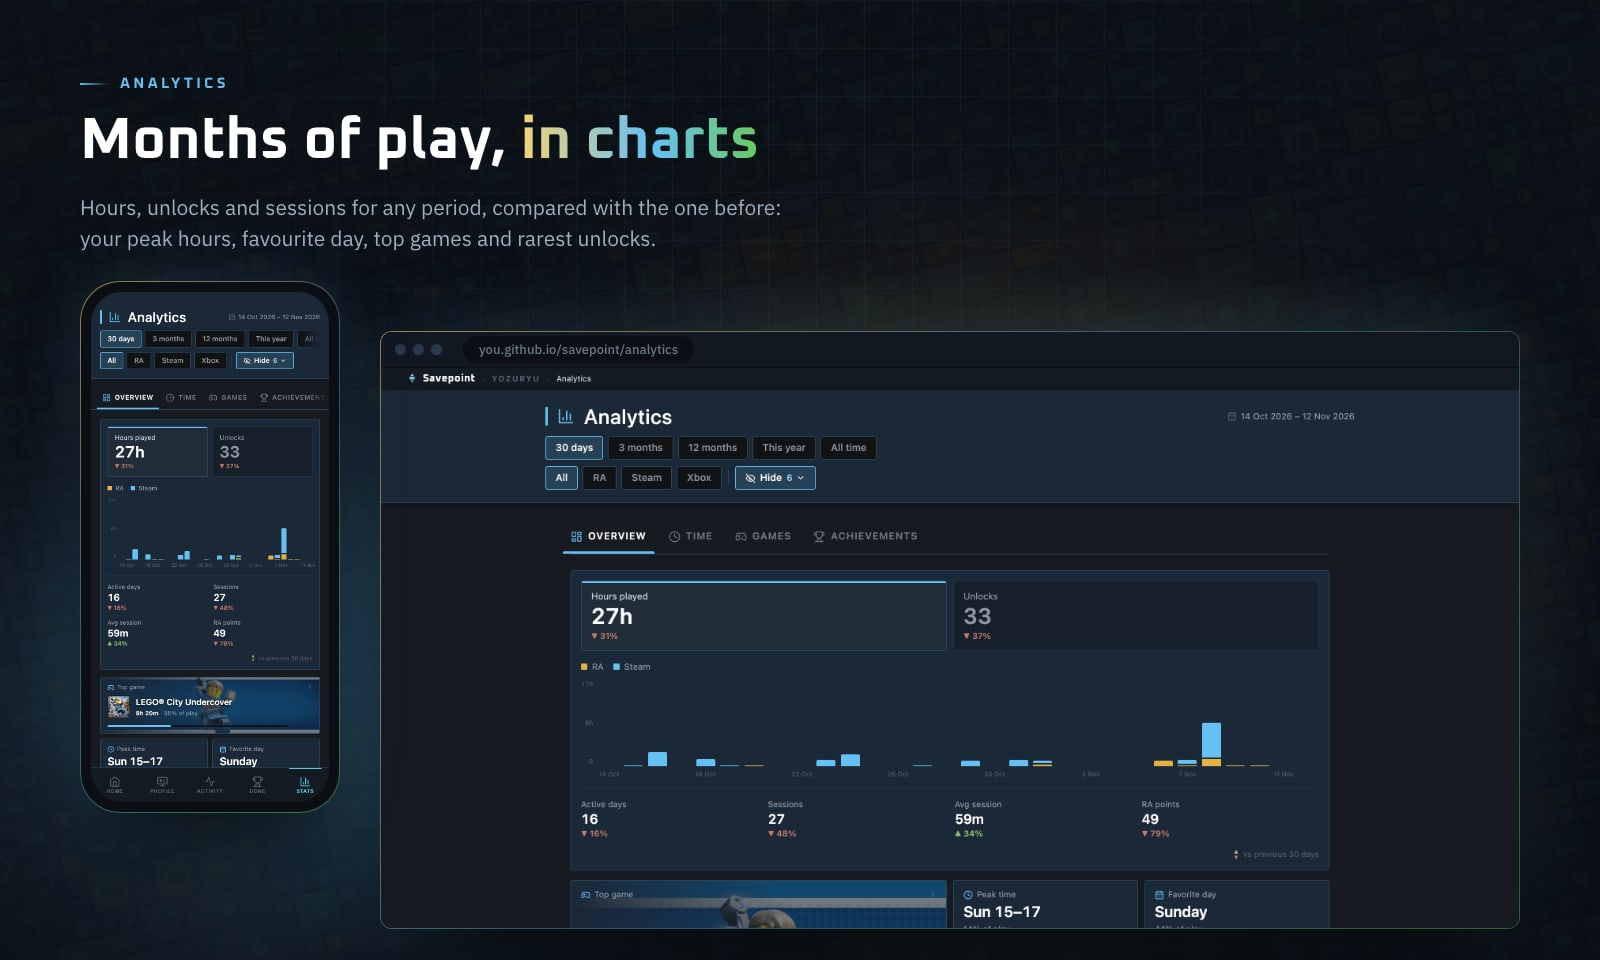
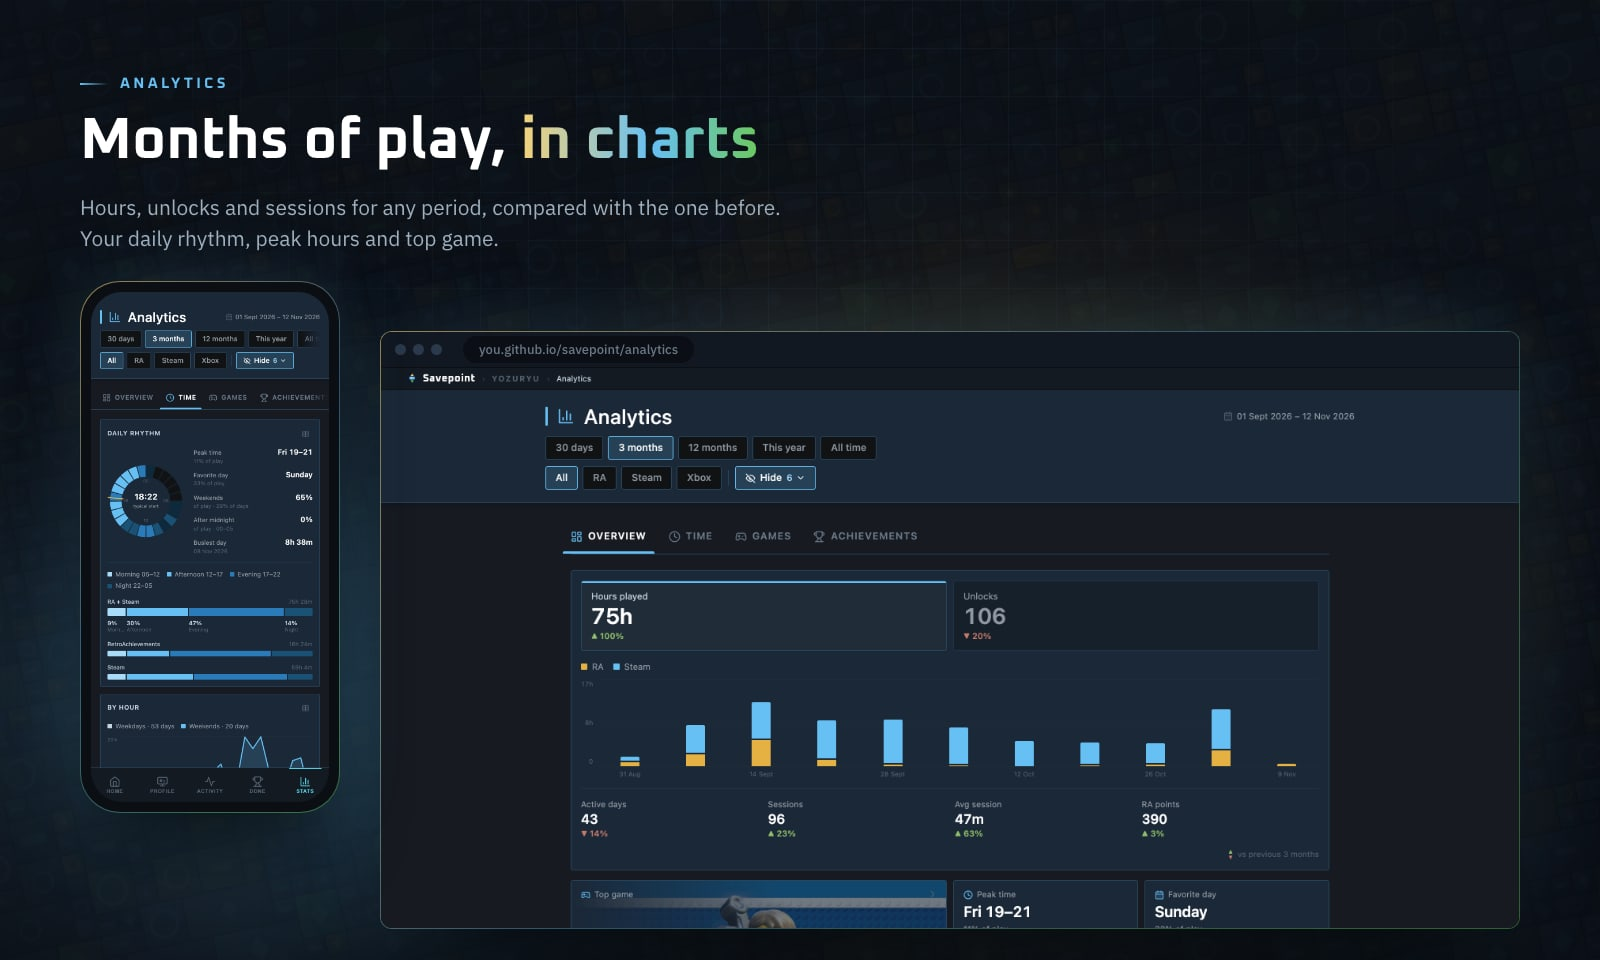
docs: Analytics poster shows 3 months and the daily rhythm
The desktop shot uses the 3-month period so the chart isn't sparse, and the
phone shows the Time tab instead of a second Overview.

Claude-Session: https://claude.ai/code/session_01EeEDGztHg726FM19DkBxwu

diff --git a/scripts/posters.js b/scripts/posters.js
@@ -51,9 +51,9 @@ async function capture() {
     const ra = (() => { try { return JSON.parse(fs.readFileSync(path.join(ROOT, 'data/ra/profile.json'), 'utf8')); } catch { return null; } })();
     const game = arg('game', ra?.recentlyPlayedGames?.[0]?.gameId ?? ra?.mostRecentGame?.gameId);
     const phone = [['hub', ''], ['ra', 'profile/ra/'], ['steam', 'profile/steam/'], ['xbox', 'profile/xbox/'], ['activity', 'activity/'],
-        ['playing', 'activity/?view=playing'], ['analytics', 'analytics/'], ['completions', 'completions/'], ['series', 'series/'],
+        ['playing', 'activity/?view=playing'], ['analytics', 'analytics/?tab=time&period=3m'], ['completions', 'completions/'], ['series', 'series/'],
         ...(game ? [['sheet', `profile/ra/?game=${game}`]] : [])];
-    const desktop = [['d-hub', ''], ['d-ra', 'profile/ra/'], ['d-activity', 'activity/'], ['d-analytics', 'analytics/'], ['d-completions', 'completions/'], ['d-series', 'series/']];
+    const desktop = [['d-hub', ''], ['d-ra', 'profile/ra/'], ['d-activity', 'activity/'], ['d-analytics', 'analytics/?period=3m'], ['d-completions', 'completions/'], ['d-series', 'series/']];
 
     const server = await serve();
     const base = `http://127.0.0.1:${server.address().port}/`;
@@ -141,7 +141,7 @@ p.lede{font-size:23px;line-height:1.5;color:#9fb0bf;max-width:32ch}
     ${head('Activity', 'See what you played, <span class="grad">and when</span>', 'Play sessions logged from your playtime every hour. The games in rotation stay in view, next to a year-long heatmap of every unlock.')}
     ${stage(620, browser('d-activity', '/activity', 0, 20, 1000, 560) + phone('playing', 1040, -40, 255, 1) + phone('activity', 1185, 40, 255, 2))}</div>`,
         analytics: `<div class="poster" style="height:960px">${G(560, 320, 900, 520, 'rgba(229,177,67,.18)')}${G(0, 480, 640, 420, 'rgba(102,192,244,.24)')}
-    ${head('Analytics', 'Months of play, <span class="grad">in charts</span>', 'Hours, unlocks and sessions for any period, compared with the one before: your peak hours, favourite day, top games and rarest unlocks.')}
+    ${head('Analytics', 'Months of play, <span class="grad">in charts</span>', 'Hours, unlocks and sessions for any period, compared with the one before. Your daily rhythm, peak hours and top game.')}
     ${stage(620, phone('analytics', 0, -30, 260, 2) + browser('d-analytics', '/analytics', 300, 20, 1140, 560))}</div>`,
         collection: `<div class="poster" style="height:980px">${G(260, 320, 820, 520, 'rgba(229,177,67,.24)')}${G(1000, 420, 600, 500, 'rgba(102,192,244,.22)')}
     ${head('Completions and series', 'Your collection, <span class="grad">organised</span>', 'Mastered, perfect and beaten games on one timeline. Series across platforms, with sub-series and progress for each.')}
